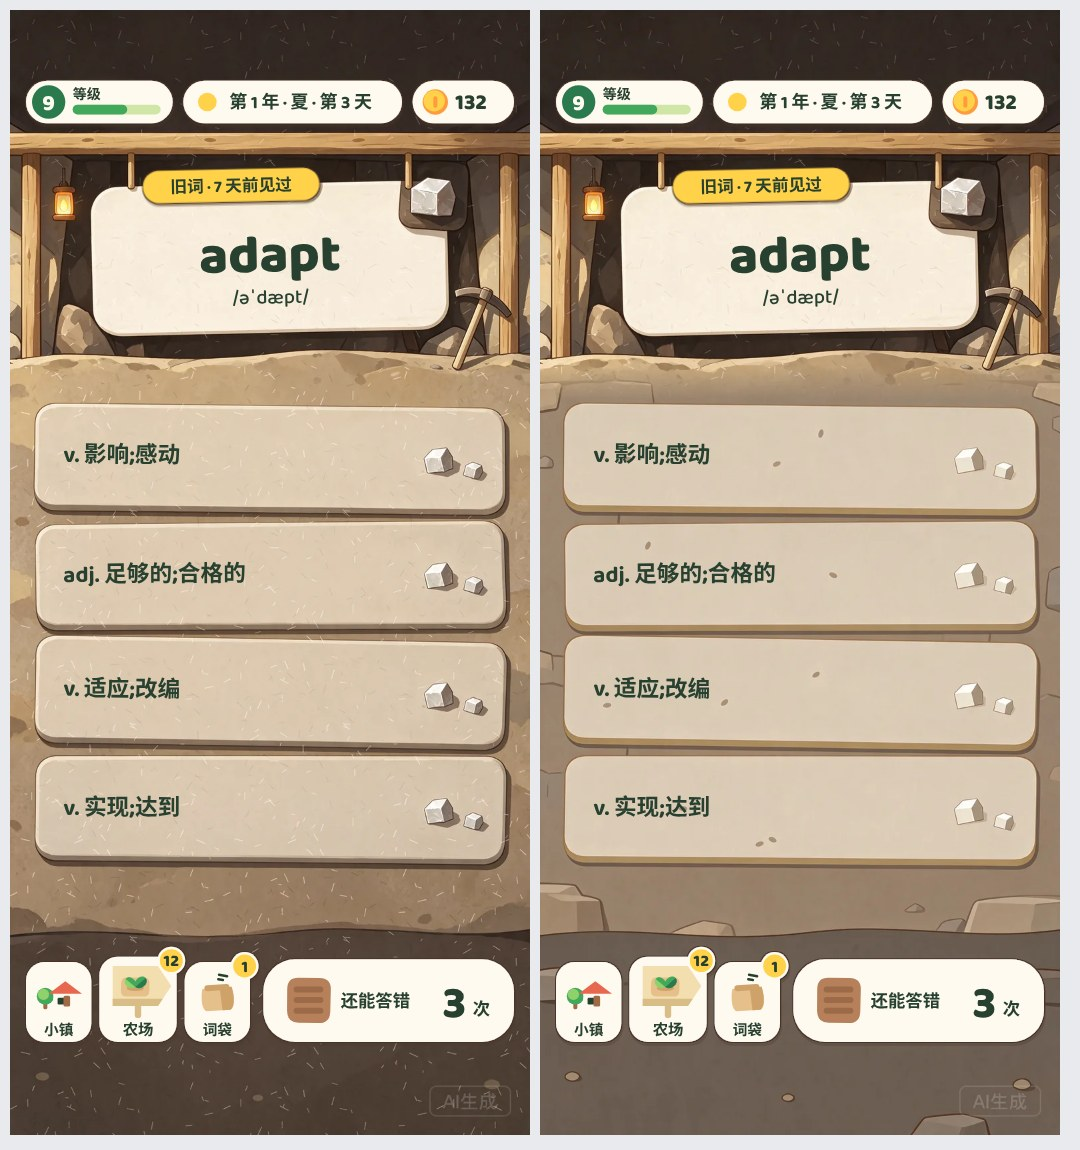
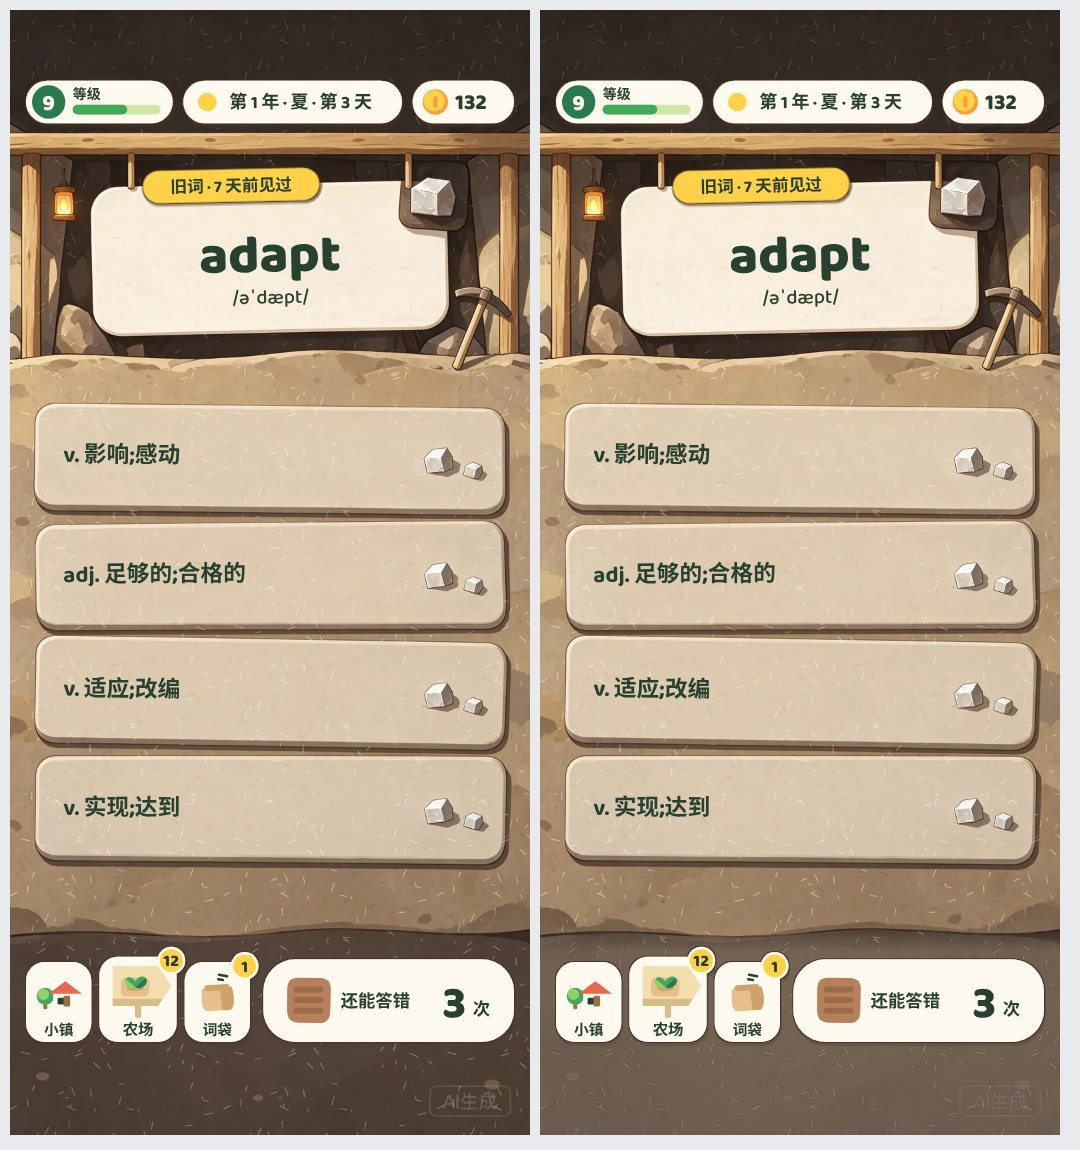
Use the first pass's layered rock wall in the mine as well
After getting the first pass's cave back around the word sign, the
owner asked for its rock wall too, for the layered-earth look. The
mine scene is now the first pass's drawing throughout; the recolored
regeneration, with its wall of gray-brown blocks, is no longer used.

One thing is changed: the floor is lifted from near black to the
palette's deep rock color, since the spec says the darkest color in
the mine is deep rock rather than black. The README notes that the
sandy wall departs from the palette's grayer rock, which was chosen so
copper and iron ore would read against it, and that this is unchecked.

Claude-Session: https://claude.ai/code/session_01KLGgNjxFgtRsY37w3UzLNc

Changed region(s): [[0.4889, 0.3043, 1.0, 0.8826], [0.8556, 0.9435, 0.9167, 1.0], [0.4889, 0.6696, 0.5194, 0.7]]

diff --git a/docs/design/cel-screens/index.html b/docs/design/cel-screens/index.html
@@ -96,9 +96,9 @@
           </tbody>
         </table>
       </div>
-      <p class="fine">颜色是在每张图的同一块位置取的平均值:草地取底部的一条,土取每块地左上角没有作物的一小块、按干土湿土分别平均。牧场的平均明度是彩纸 201、第一版 159、现在 192;矿洞是 170、140、现在 146(词牌周围用回了第一版深色的洞,所以比只改色调的那一版 157 又暗了一点)。</p>
+      <p class="fine">颜色是在每张图的同一块位置取的平均值:草地取底部的一条,土取每块地左上角没有作物的一小块、按干土湿土分别平均。牧场的平均明度是彩纸 201、第一版 159、现在 192;矿洞是 170、140、现在 146(用的是第一版的画,只调亮了地面;写了色值重出的那一版是 157,没有用)。</p>
       <ul class="notes">
-        <li><b>怎么改的:</b>在提示词里写明"色调和参考图一致,浅、亮、柔和、对比度低",并把彩纸色板里的色值一个个写进去(草地、天、干土、湿土、空地、叶子)。牧场和矿洞各重出一张就对了。</li>
+        <li><b>怎么改的:</b>在提示词里写明"色调和参考图一致,浅、亮、柔和、对比度低",并把彩纸色板里的色值一个个写进去(草地、天、干土、湿土、空地、叶子)。牧场重出一张就对了。矿洞也重出了一张,色调对了,但负责人更喜欢第一版画的洞和矿壁,最后没有用,见<a href="#mine">矿洞</a>。</li>
         <li><b>农场出了三张,每张都有画错的地方。</b>第一张把一块湿土画成了干土,把一株没结棒的玉米画成了结了棒的;第二张整片地往下挪了,界面对不上;第三张错了三块。
           第一版(色调偏深的那张)干湿 30 块全对、作物只错了一株,现在看是碰巧。</li>
         <li><b>现在这张农场是拼的:</b>用第一张,画错的那两块地从第一版里取同一块补上(第一版先整体调了色)。页面上其余的图没有动过。</li>
@@ -158,8 +158,9 @@
       <div class="trio" id="cmp-mine"></div>
       <ul class="notes">
         <li><b>岩层的构图保住了:</b>木梁、提灯、挂着的词牌、探出来的矿石、镐、四条石板、石板右端的矿。</li>
-        <li><b>这一屏是上下两半拼的。</b>负责人看过之后说,第一版里词牌周围那一圈矿洞的感觉很好:洞是深的,两边露着石头,梁下挂着灯。改色调的那一版把这一圈画平了,灯也没了。
-          所以矿壁上沿以上用回第一版,以下(矿壁、石板、地面)还是改过色调的那一版。接缝在矿壁上沿那条沙土的边上。</li>
+        <li><b>这一屏用的是第一版的画。</b>负责人看过之后先后说了两点:第一版里词牌周围那一圈矿洞的感觉很好(洞是深的,两边露着石头,梁下挂着灯);矿壁也要第一版的,有地层的感觉。
+          改色调重出的那一版把洞画平了、灯没了,矿壁成了一块块灰褐色的石头,所以没有再用。
+          现在只动了一处:最下面的地面从接近黑色调亮到色板里的岩石深,规范里洞里最深的颜色是岩石深,不是黑。</li>
         <li><b>字读得清。</b>单词 40pt、释义 17pt 压在模型画的牌子和石板上,底色干净,没有纹理抢字。</li>
         <li><b>"点石板的那一下就是那一镐"没有变,</b>但答对、运气好、答错三个关键帧这次没有画。石板裂开、矿石弹出要的是能动的素材,一张拼好的图做不了。</li>
         <li><b>石板比彩纸更像一块块石头了,</b>"静止时像一张选择题列表"这个老问题轻了一点。这是我自己看的。</li>

diff --git a/docs/design/cel-screens/README.md b/docs/design/cel-screens/README.md
@@ -27,7 +27,7 @@
 | [`three-screens.jpg`](shots/three-screens.jpg) | 新画风的三屏 |
 | [`vs-paper.jpg`](shots/vs-paper.jpg)、[`vs-paper-zoom.jpg`](shots/vs-paper-zoom.jpg) | 和彩纸并排:三屏各一对(左彩纸,右现在),以及各放大一块 |
 | [`tone.jpg`](shots/tone.jpg) | 色调:第一版和现在的,三屏各一对 |
-| [`mine-cave.jpg`](shots/mine-cave.jpg) | 矿洞:左边是第一版,右边是现在的(上半截用回了第一版的洞) |
+| [`mine-cave.jpg`](shots/mine-cave.jpg) | 矿洞:左边是第一版,右边是现在的(同一张画,只调亮了地面) |
 | [`ground.jpg`](shots/ground.jpg) | 底色:农场和牧场各三张,彩纸、调之前、调之后(只有场景,没有界面) |
 | [`farm.jpg`](shots/farm.jpg)、[`pasture.jpg`](shots/pasture.jpg)、[`mine.jpg`](shots/mine.jpg) | 每一屏的三联:彩纸的原稿、模型画出来的原样、叠上界面之后 |
 | [`small.jpg`](shots/small.jpg) | 农场缩到每块地约 28pt,彩纸和新画风(截图放大了 3 倍) |
@@ -69,9 +69,9 @@
 | 整屏明暗的起伏(标准差) | 40 | 48 | 39 |
 
 颜色是在每张图的同一块位置取的平均值:草地取底部的一条,土取每块地左上角没有作物的一小块、按干土湿土分别平均。
-牧场的平均明度是彩纸 201、第一版 159、现在 192;矿洞是 170、140、现在 146(词牌周围用回了第一版深色的洞,比只改色调的那一版 157 又暗了一点)。
+牧场的平均明度是彩纸 201、第一版 159、现在 192;矿洞是 170、140、现在 146(用的是第一版的画,只调亮了地面;写了色值重出的那一版是 157,没有用)。
 
-- **怎么改的:** 提示词里写明"色调和参考图一致,浅、亮、柔和、对比度低",并把彩纸色板里的色值一个个写进去。牧场和矿洞各重出一张就对了。
+- **怎么改的:** 提示词里写明"色调和参考图一致,浅、亮、柔和、对比度低",并把彩纸色板里的色值一个个写进去。牧场重出一张就对了。矿洞也重出了一张,色调对了,但负责人更喜欢第一版画的洞和矿壁,最后没有用。
 - **农场出了三张,每张都有画错的地方。** 第一张把一块湿土画成了干土,把一株没结棒的玉米画成了结了棒的;第二张整片地往下挪了,界面对不上;第三张错了三块。
   第一版(色调偏深的那张)干湿 30 块全对、作物只错一株,现在看是碰巧。
 - **现在这张农场是拼的:** 用第一张,画错的那两块地从第一版里取同一块补上(第一版先整体调了色:拿两张图对应位置的颜色拟合一个整体的颜色换算)。其余的图没有动过。
@@ -106,9 +106,10 @@
 ### 矿洞
 
 - 岩层的构图保住了:木梁、提灯、挂着的词牌、探出来的矿石、镐、四条石板、石板右端的矿。
-- **这一屏是上下两半拼的。** 负责人看过之后说(原话):"第一版插画赛璐璐风格的这个矿洞页的这个单词周围的这一圈矿洞的感觉很好,现在的可以也改成那样吗"。
-  第一版里洞是深的,两边露着石头,梁下挂着灯;改色调的那一版把这一圈画平了,灯也没了。所以矿壁上沿以上用回第一版,以下(矿壁、石板、地面)还是改过色调的那一版,接缝在矿壁上沿那条沙土的边上。
-  试过另一种做法(整张用第一版,只把下半截调回彩纸的色调),矿壁上的碎屑被调得很花,地面发绿,没有用。
+- **这一屏用的是第一版的画。** 负责人看过之后先后说了两点(原话):"第一版插画赛璐璐风格的这个矿洞页的这个单词周围的这一圈矿洞的感觉很好";"矿壁也换成第一版,比较有地层的那种感觉"。
+  改色调重出的那一版把洞画平了、灯没了,矿壁成了一块块灰褐色的石头,所以没有再用。
+  现在只动了一处:最下面的地面从接近黑色(`#4e3f35`)调亮到色板里的岩石深(`#705f51`)。规范里洞里最深的颜色是岩石深,不是黑。
+  **矿壁是沙土的黄褐色,不是色板里偏灰的岩石色。** 规范当初选偏灰的颜色,是因为土色偏橙红时铜和铁的矿石放上去分不出来。这一条在新矿壁上没有验证。
 - 词牌和石板要求留白,模型照做了。单词 40pt、释义 17pt 叠上去读得清。
 - 答对、运气好、答错三个关键帧没有画。石板裂开、矿石弹出要的是能动的素材。
 
@@ -171,7 +172,7 @@
 |---|---|---|---|---|
 | `generated/farm.webp`:农场的场景。**拼过:**两块地取自 `farm-v1.webp` 调色之后的同一块 | 豆包 `doubao-seedream-5-5-261028`,带参考图 | 2026-11-22 | `generated/manifest.json` | 对比页 |
 | `generated/pasture.webp`:牧场的场景 | 同上 | 2026-11-22 | 同上 | 对比页 |
-| `generated/mine.webp`:矿洞的场景。**拼过:**矿壁上沿以上取自 `mine-v1.webp` | 同上 | 2026-11-22 | 同上 | 对比页 |
+| `generated/mine.webp`:矿洞的场景。就是第一版的画,只调亮了地面 | 同上 | 2026-11-22 | 同上 | 对比页 |
 | `generated/sprites-turnip.webp`:萝卜的七个状态 | 同上 | 2026-11-22 | 同上 | 对比页"素材的试验" |
 | `generated/farm-v1.webp`、`pasture-v1.webp`、`mine-v1.webp`:第一版,色调偏深 | 同上 | 2026-11-22 | 同上 | 对比页"色调"一节,留作对照 |
 
